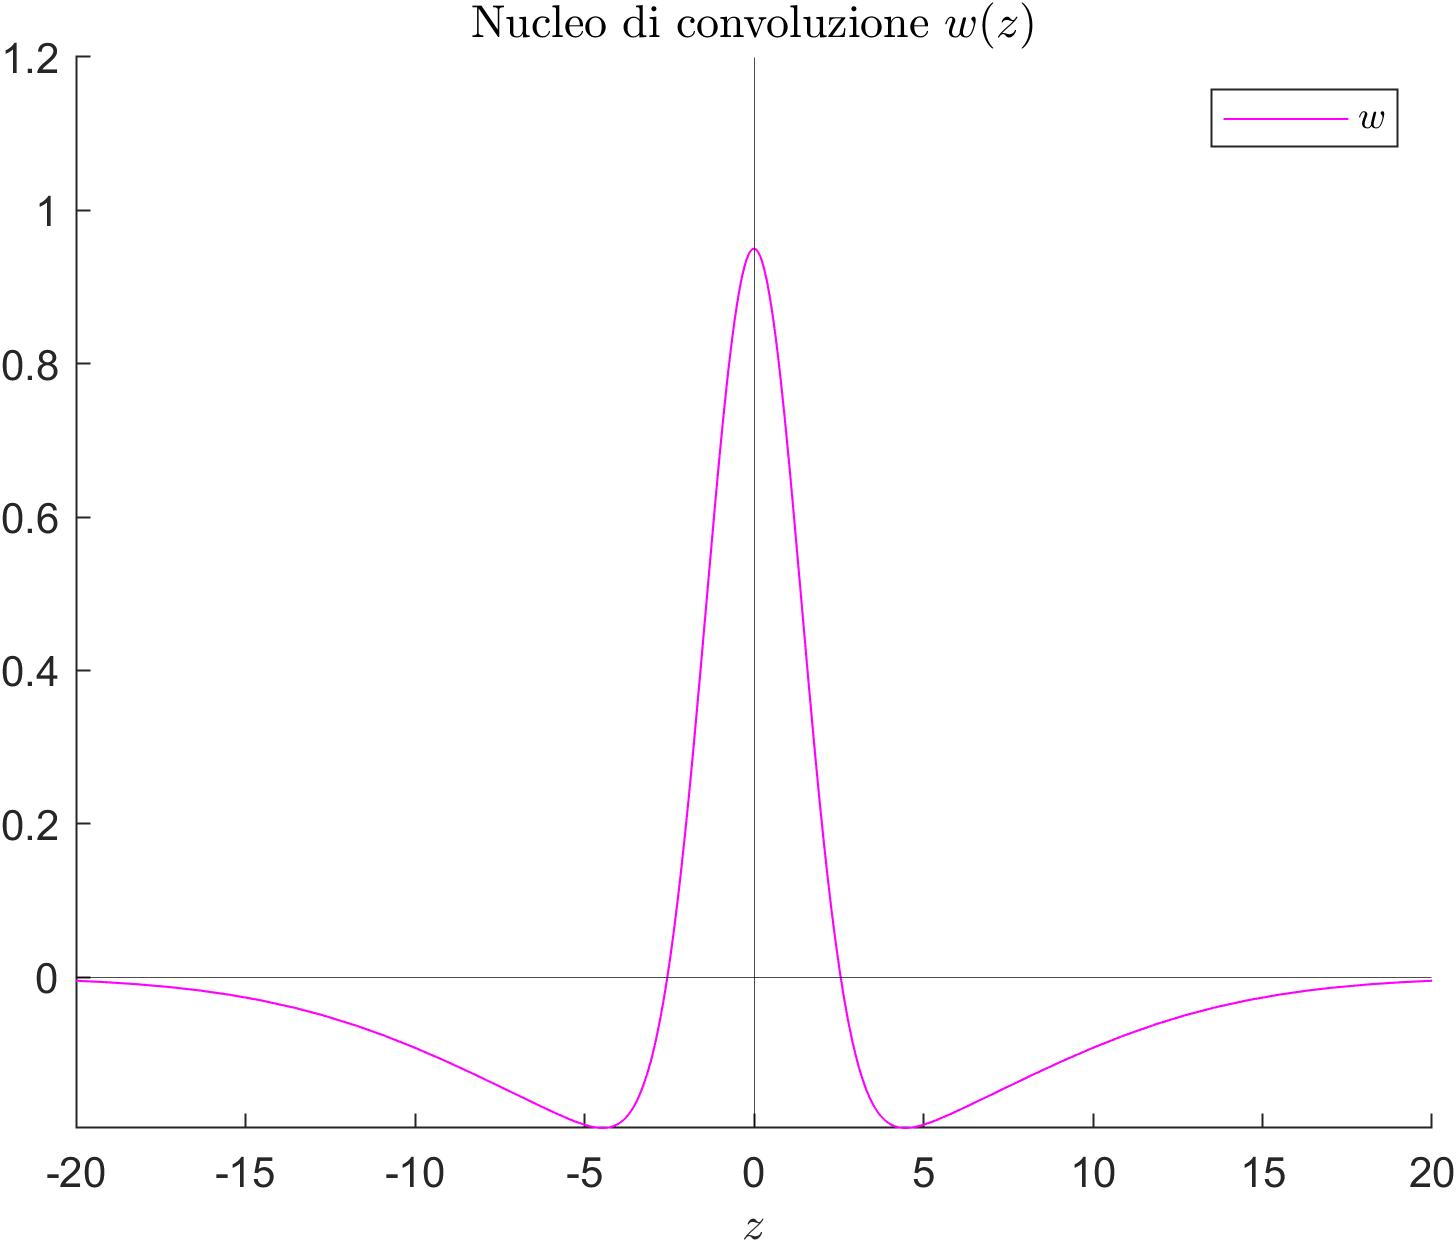
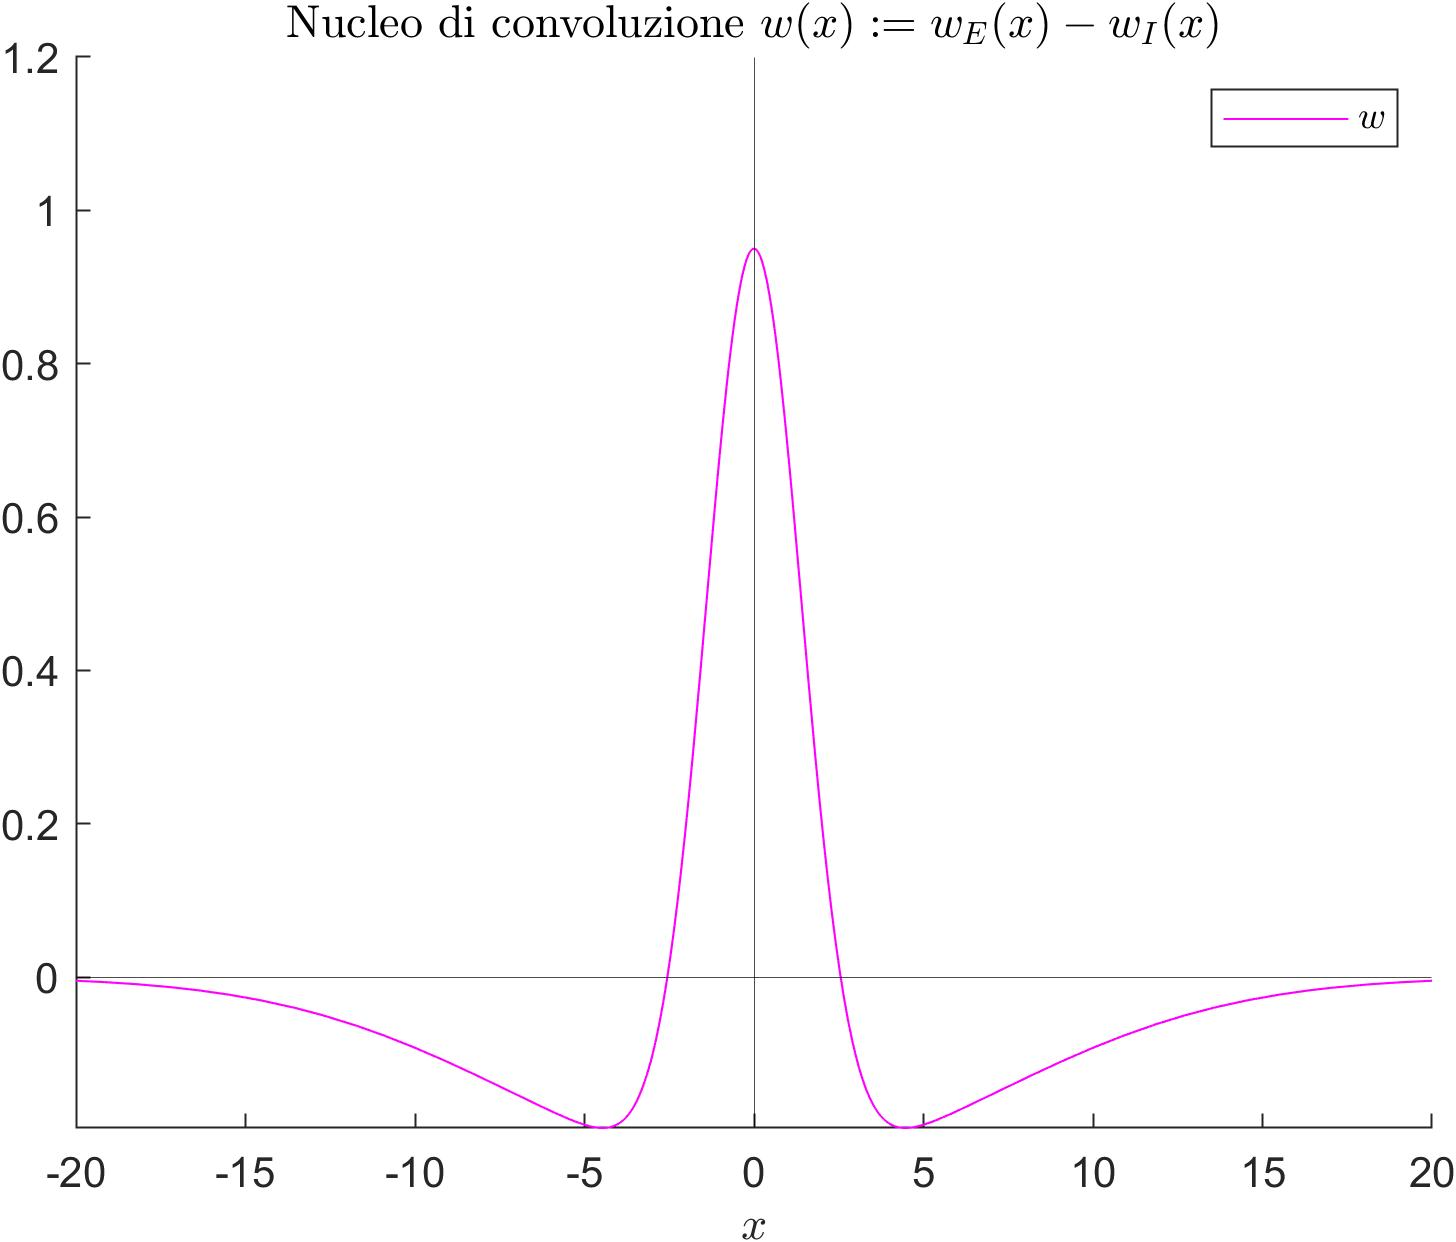
Add files via upload

Changed region(s): [[0.1854, 0.0, 0.7109, 0.0306], [0.7727, 0.0, 0.8345, 0.0306], [0.4945, 0.9791, 0.5254, 1.0]]

diff --git a/1.simple_1d_model/makeKernel.m b/1.simple_1d_model/makeKernel.m
@@ -10,20 +10,20 @@ if b1*d1-b2*d2 >= 0
 end
 
 %Costruzione del nucleo e relativa trasformata di Fourier
-w_E=@(z) b1.*exp(-(z./d1).^2);
-w_I=@(z) b2.*exp(-(z./d2).^2);
-w=@(z) w_E(z)-w_I(z); 
+w_E=@(x) b1.*exp(-(x./d1).^2);
+w_I=@(x) b2.*exp(-(x./d2).^2);
+w=@(x) w_E(x)-w_I(x); 
 W=@(k) sqrt(pi).*(b1.*d1.*exp(-((d1.*k).^2)/4)-b2.*d2.*exp(-((d2.*k).^2)/4));
 
 %Plotting delle curve ottenute
-z=linspace(-ext,ext,1000);
-lims=[-ext,ext,min(w(z)),b1];
+x=linspace(-ext,ext,1000);
+lims=[-ext,ext,min(w(x)),b1];
 if plt==1
     hold on
     axis(lims);
-    xlabel('$z$','Interpreter','latex');
-    str_we=strcat('$w_E(z)=',num2str(b1),'e^{- \left(\frac{z}{',num2str(d1),'}\right)^2};');
-    str_wi=strcat('w_I(z)=',num2str(b2),'e^{- \left(\frac{z}{',num2str(d2),'}\right)^2}$');
+    xlabel('$x$','Interpreter','latex');
+    str_we=strcat('$w_E(x)=',num2str(b1),'e^{- \left(\frac{x}{',num2str(d1),'}\right)^2};');
+    str_wi=strcat('w_I(x)=',num2str(b2),'e^{- \left(\frac{x}{',num2str(d2),'}\right)^2}$');
     tstr=strcat(str_we , str_wi);
     title(tstr,'Interpreter','latex');
     xline(0,'Color','black','Linewidth',0.08);
@@ -36,8 +36,8 @@ if plt==1
     
     figure
     hold on
-    title('Nucleo di convoluzione $w(z)$','Interpreter','latex')
-    xlabel('$z$','Interpreter','latex');
+    title('Nucleo di convoluzione $w(x):=w_E(x)-w_I(x)$','Interpreter','latex')
+    xlabel('$x$','Interpreter','latex');
     axis(lims)
     xline(0,'Color','black','Linewidth',0.08);
     yline(0,'Color','black','Linewidth',0.08);
@@ -48,10 +48,10 @@ if plt==1
     
     figure
     hold on
-    z=linspace(-ext_W,ext_W,1000);
-    lims=[-ext_W,ext_W,min(W(z)),max(W(z))];
+    x=linspace(-ext_W,ext_W,1000);
+    lims=[-ext_W,ext_W,min(W(x)),max(W(x))];
     axis(lims);
-    title('Trasformata di Fourier del nucleo $W(k) := \hat{w}(k)$','Interpreter','latex')
+    title('Trasformata di Fourier del nucleo $W(k) := \widehat{w(x)}$','Interpreter','latex')
     xlabel('$k$','Interpreter','latex');
     xline(0,'Color','black','Linewidth',0.08);
     yline(0,'Color','black','Linewidth',0.08);
